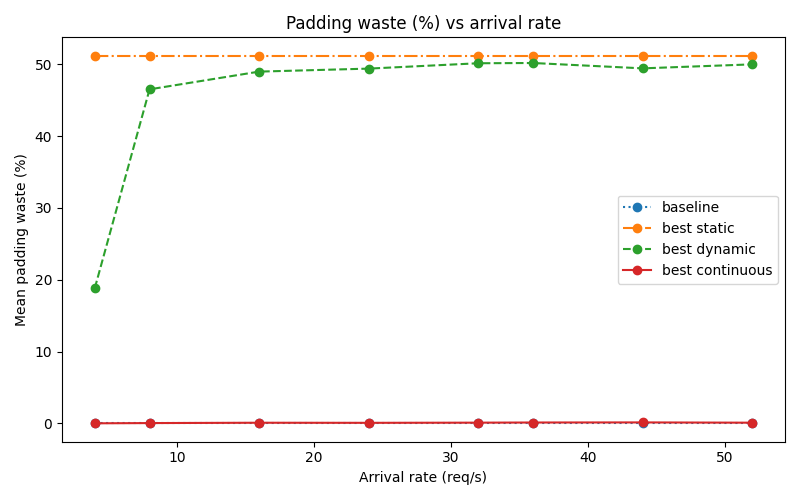
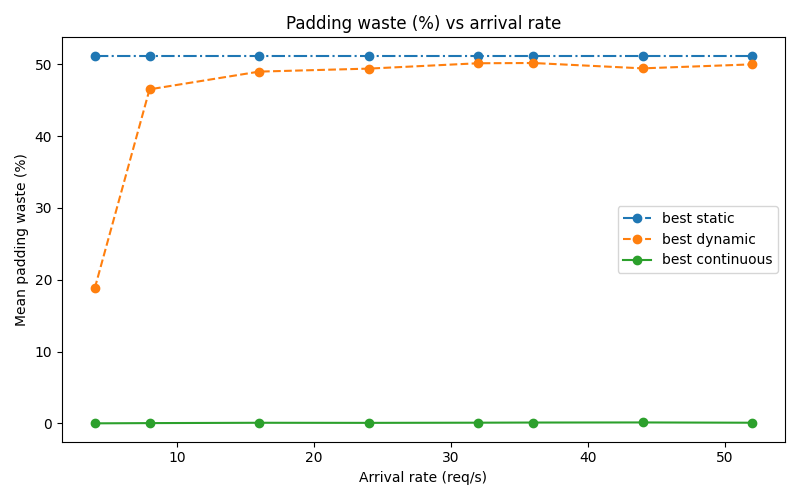
update readme

diff --git a/experiments/batching/plot_scheduler_results.py b/experiments/batching/plot_scheduler_results.py
@@ -130,6 +130,7 @@ def _save_final_family_plot(
     title: str,
     output_path: str,
     y_log: bool = False,
+    include_labels: list[str] | None = None,
 ) -> None:
     plt.figure(figsize=(8, 5))
     line_styles = {
@@ -145,7 +146,8 @@ def _save_final_family_plot(
         "continuous": "best continuous",
     }
 
-    for label in ["baseline", "static", "dynamic", "continuous"]:
+    labels = include_labels or ["baseline", "static", "dynamic", "continuous"]
+    for label in labels:
         df = final_dfs.get(label)
         if df is None or df.empty:
             continue
@@ -465,6 +467,7 @@ def run(cfg: SchedulingExperimentConfig | None = None):
         ylabel="Mean padding waste (%)",
         title="Padding waste (%) vs arrival rate",
         output_path=f"{plot_dir}/padding_waste_mode_comparison.png",
+        include_labels=["static", "dynamic", "continuous"],
     )
     _save_tradeoff_scatter(agg, f"{plot_dir}/throughput_vs_p99_latency_scatter.png")
 
